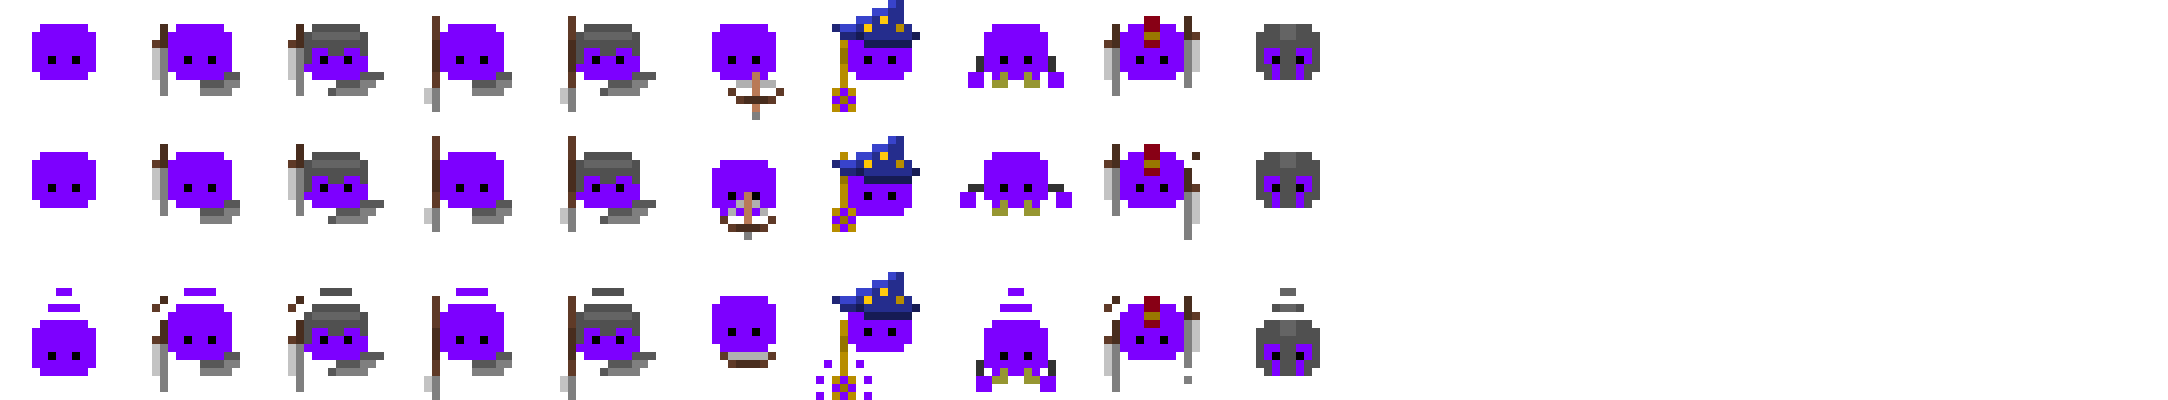
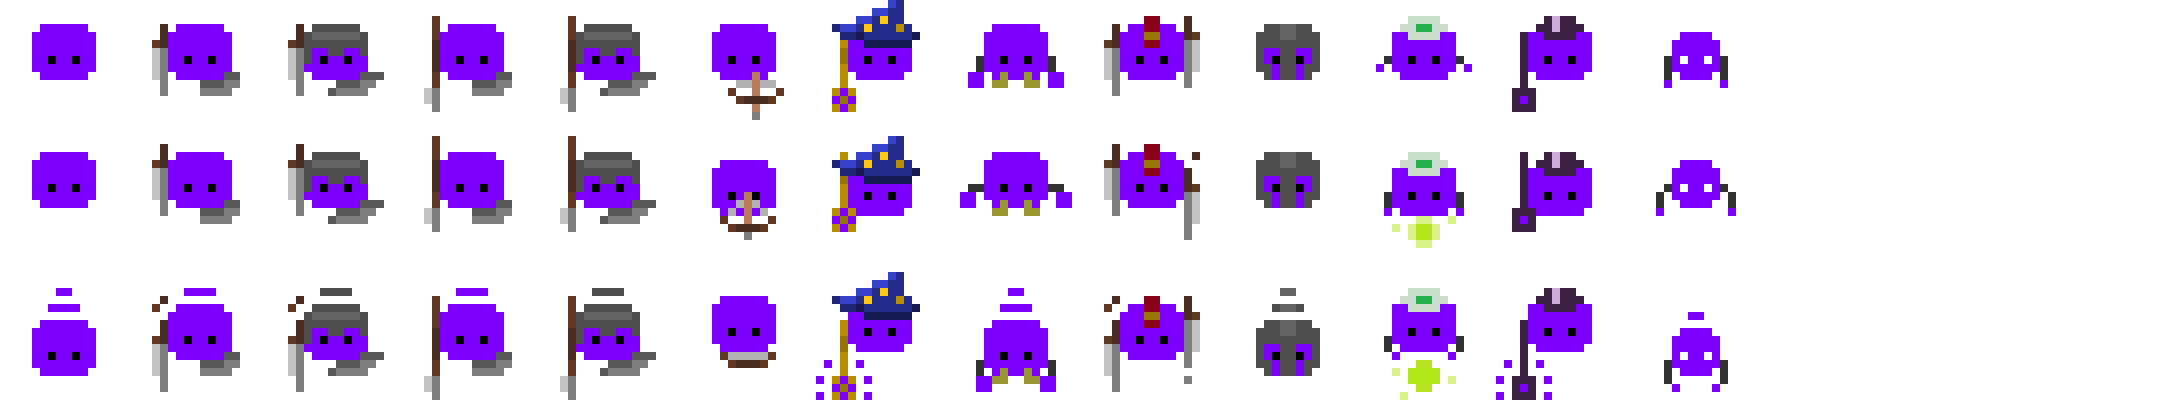
medics

diff --git a/js/src/warriors/units/medic.js b/js/src/warriors/units/medic.js
@@ -1,0 +1,52 @@
+const MedicWarriorSTATS = {
+    maxHp: 25,
+    armor: 1,
+    spriteRow: 10,
+    displaySize: DEFAULT.UNIT_SPRITE_SIZE * 0.9,
+    // healing
+    attackWindup: 500,
+    attackWinddown: 800,
+    attackCooldown: 3000, 
+    minAttack: 6, 
+    maxAttack: 12,
+    collisonSize: DEFAULT.UNIT_COLLISION_SIZE * 0.9,
+    speed: DEFAULT.UNIT_SPEED * 0.9, 
+    range: DEFAULT.UNIT_RANGED_RANGE * 0.3, 
+    projectileClass: null
+};
+
+class MedicWarrior extends Warrior {
+
+    constructor() {
+        super(MedicWarriorSTATS);
+    }
+
+    onAttack() {
+        if(this.target) {
+            let polar = Gmt.cartesianToPolar(this.hitbox.x - this.target.hitbox.x, this.hitbox.y - this.target.hitbox.y);
+            if(polar.r <= this.range) {
+                this.target.hp.heal(this.attackInfo.getDmg());
+            }
+        }
+    }
+
+    lockOnTarget(myTeam, enemyTeams) {
+        if(!this.target || this.target.hp.asFraction() > 0.75) {
+            let newTarget = null;
+            let newTargetPriority = 0;
+            myTeam.warriors.filter(w => w.hp.alive).forEach(w => {
+                let dist = Gmt.Distance.circles(this.hitbox, w.hitbox);
+                let missingHp = 1 - w.hp.asFraction();
+                let prority = missingHp/dist;
+                if(prority > newTargetPriority) {
+                    newTargetPriority = prority;
+                    newTarget = w;
+                }
+            });
+            this.target = newTarget;
+        } else if(!this.target.hp.alive) {
+            this.target = undefined;
+        }
+        return this.target ? true : false;
+    }
+}

diff --git a/js/src/warriors/warrior.js b/js/src/warriors/warrior.js
@@ -9,33 +9,34 @@ class Warrior extends Entity{
     }
 
     act(myTeam, enemyTeams) {
-        if(this.lockOnTarget(enemyTeams)){
+        if(this.lockOnTarget(myTeam, enemyTeams)){
             let polar = Gmt.cartesianToPolar(this.hitbox.x - this.target.hitbox.x, this.hitbox.y - this.target.hitbox.y);
             this.turnTo(polar.phi);
             if(polar.r > this.range) {
                 this.move(this.speed, polar.phi);
             } else {
-                this.attack(myTeam, enemyTeams);
+                this.attack();
             }
         }
     }
 
-    attack(myTeam, enemyTeams) {
+    attack() {
         let me = this;
         this.attackInfo.startAttack(() => {
-            me.onAttack(myTeam, enemyTeams);
-        }, myTeam, enemyTeams);
+            me.onAttack();
+        });
     }
 
-    onAttack(myTeam, enemyTeams) {
-        // temp
+    onAttack() {
         if(this.target) {
-            this.target.hp.damage(this.attackInfo.getDmg());
+            let polar = Gmt.cartesianToPolar(this.hitbox.x - this.target.hitbox.x, this.hitbox.y - this.target.hitbox.y);
+            if(polar.r <= this.range) {
+                this.target.hp.damage(this.attackInfo.getDmg());
+            }
         }
-        // abstract
     }
 
-    lockOnTarget(enemyTeams) {
+    lockOnTarget(myTeam, enemyTeams) {
         if(!this.target) {
             let newTarget = null;
             let newTargetDist = Infinity;

diff --git a/index.html b/index.html
@@ -15,8 +15,6 @@
         <script src="js/src/warriors/displayInfo.js"></script>
         <script src="js/src/warriors/attackInfo.js"></script>
         <script src="js/src/warriors/warrior.js"></script>
-        <script src="js/src/warriors/rangedWarrior.js"></script>
-        <script src="js/src/warriors/meleeWarrior.js"></script>
         <script src="js/src/warriors/units/militia.js"></script>
         <script src="js/src/warriors/units/swordsman.js"></script>
         <script src="js/src/warriors/units/heavySwordsman.js"></script>
@@ -27,6 +25,7 @@
         <script src="js/src/warriors/units/brute.js"></script>
         <script src="js/src/warriors/units/barbarian.js"></script> 
         <script src="js/src/warriors/units/tank.js"></script> 
+        <script src="js/src/warriors/units/medic.js"></script> 
         <script src="js/src/team.js"></script>
         <!-- MOCK -->
         <script src='js/mock.js'></script>

diff --git a/js/src/warriors/attackInfo.js b/js/src/warriors/attackInfo.js
@@ -20,7 +20,7 @@ class AttackInfo {
         return Gmt.randFloat(this.minDmg, this.maxDmg);
     }
 
-    startAttack(callback, myTeam, enemyTeams) {
+    startAttack(callback) {
         let info = this;
         if(info.state !== STATE.IDLE || info.isCooldown) {
             return;
@@ -31,9 +31,8 @@ class AttackInfo {
                 info.isCooldown = false;
             }, info.cooldown);
             setTimeout(() => {
-                callback(myTeam, enemyTeams);
+                callback();
                 setTimeout(() => {
-                    callback(myTeam, enemyTeams);
                     info.state = STATE.IDLE;
                 }, info.winddown);
                 info.state = STATE.WINDDOWN;

diff --git a/js/src/warriors/units/wizard.js b/js/src/warriors/units/wizard.js
@@ -6,16 +6,15 @@ const WizardWarriorSTATS = {
     attackWindup: 500,
     attackWinddown: 800,
     attackCooldown: 3500, 
-    minAttack: 3,
+    minAttack: 4,
     maxAttack: 8,
     collisonSize: DEFAULT.UNIT_COLLISION_SIZE * 0.8,
     speed: DEFAULT.UNIT_SPEED * 1, 
     range: DEFAULT.UNIT_RANGED_RANGE * 0.7, 
-    accuracy: 0.95,
     projectileClass: null
 };
 
-class WizardWarrior extends MeleeWarrior {
+class WizardWarrior extends Warrior {
     constructor() {
         super(WizardWarriorSTATS);
     }

diff --git a/js/src/warriors/units/archer.js b/js/src/warriors/units/archer.js
@@ -7,15 +7,14 @@ const ArcherWarriorSTATS = {
     attackWinddown: 500,
     attackCooldown: 2500, 
     minAttack: 3,
-    maxAttack: 5,
+    maxAttack: 6,
     collisonSize: DEFAULT.UNIT_COLLISION_SIZE,
     speed: DEFAULT.UNIT_SPEED * 1, 
     range: DEFAULT.UNIT_RANGED_RANGE, 
-    accuracy: 0.99,
     projectileClass: null
 };
 
-class ArcherWarrior extends MeleeWarrior {
+class ArcherWarrior extends Warrior {
     constructor() {
         super(ArcherWarriorSTATS);
     }

diff --git a/js/src/team.js b/js/src/team.js
@@ -5,7 +5,6 @@ class Team {
         this.warriors = [];
         this.projectiles = [];
         this.unitTileset = new Gmt.TileSet(`assets\\target\\units.${color}.png`, 128, 128, 8);
-        this.projectileTileset = new Gmt.TileSet(`assets\\target\\projectiles.${color}.png`, 128, 128, 8);
         this.symbolTileset = new Gmt.TileSet(`assets\\target\\symbols.${color}.png`, 128, 128, 8);
     }
 

diff --git a/js/mock.js b/js/mock.js
@@ -6,7 +6,7 @@ const COLORS = [
 const UNIT_TYPES = [
     MilitiaWarrior, SwordsmanWarrior, HeavySwordsmanWarrior,
     SpearmanWarrior, HeavySpearmanWarrior, ArcherWarrior, 
-    WizardWarrior, BruteWarrior, BarbarianWarrior, TankWarrior
+    WizardWarrior, BruteWarrior, BarbarianWarrior, TankWarrior, MedicWarrior
 ];
 
 

diff --git a/js/src/warriors/units/heavySwordsman.js b/js/src/warriors/units/heavySwordsman.js
@@ -13,7 +13,7 @@ const HeavySwordsmanWarriorSTATS = {
     range: DEFAULT.UNIT_MELEE_RANGE * 1.1
 };
 
-class HeavySwordsmanWarrior extends MeleeWarrior {
+class HeavySwordsmanWarrior extends Warrior {
     constructor() {
         super(HeavySwordsmanWarriorSTATS);
     }

diff --git a/js/src/warriors/units/heavySpearman.js b/js/src/warriors/units/heavySpearman.js
@@ -13,7 +13,7 @@ const HeavySpearmanWarriorSTATS = {
     range: DEFAULT.UNIT_MELEE_RANGE * 1.5
 };
 
-class HeavySpearmanWarrior extends MeleeWarrior {
+class HeavySpearmanWarrior extends Warrior {
     constructor() {
         super(HeavySpearmanWarriorSTATS);
     }

diff --git a/js/src/warriors/units/barbarian.js b/js/src/warriors/units/barbarian.js
@@ -13,7 +13,7 @@ const BarbarianWarriorSTATS = {
     range: DEFAULT.UNIT_MELEE_RANGE * 0.9
 };
 
-class BarbarianWarrior extends MeleeWarrior {
+class BarbarianWarrior extends Warrior {
     constructor() {
         super(BarbarianWarriorSTATS);
     }

diff --git a/js/src/warriors/units/swordsman.js b/js/src/warriors/units/swordsman.js
@@ -13,7 +13,7 @@ const SwordsmanWarriorSTATS = {
     range: DEFAULT.UNIT_MELEE_RANGE * 1.1
 };
 
-class SwordsmanWarrior extends MeleeWarrior {
+class SwordsmanWarrior extends Warrior {
     constructor() {
         super(SwordsmanWarriorSTATS);
     }
